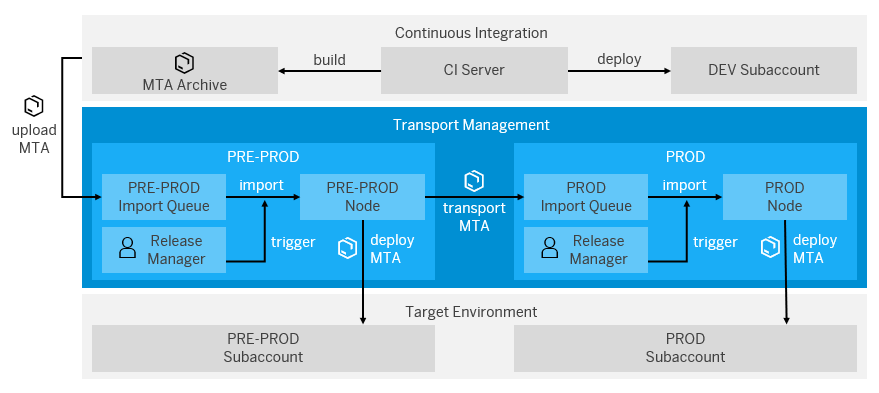
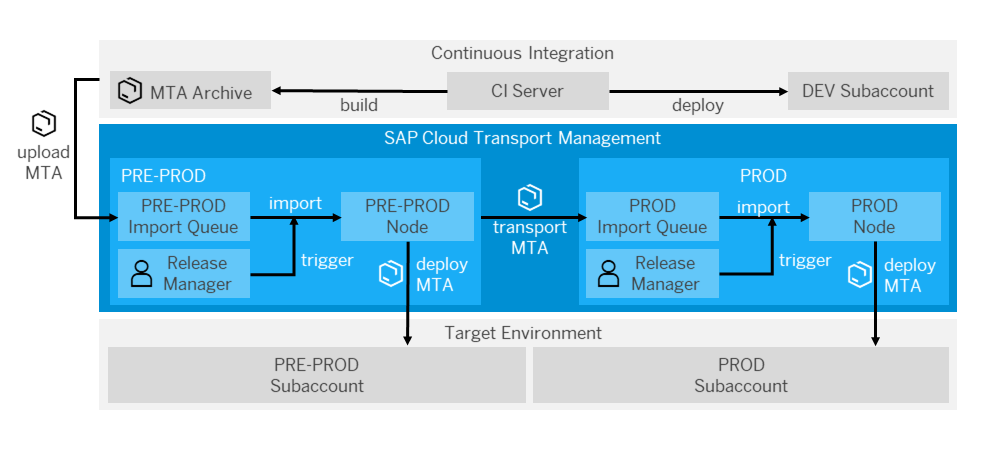
Update TMS pages after rebranding

diff --git a/documentation/docs/scenarios/TMS_Extension.md b/documentation/docs/scenarios/TMS_Extension.md
@@ -1,32 +1,34 @@
-# Integrate SAP Cloud Platform Transport Management Into Your CI/CD Pipeline
+# Integrate SAP Cloud Transport Management Into Your CI/CD Pipeline
 
-Extend your CI/CD pipeline with SAP Cloud Platform Transport Management (Transport Management, for short) to add an enterprise-ready change and release management process and enable the transport of cloud-based applications on SAP Cloud Platform between several stages.
+Extend your CI/CD pipeline with SAP Cloud Transport Management service to add an enterprise-ready change and release management process and enable the transport of cloud-based applications on SAP Business Technology Platform (BTP) between several stages.
 
 ## Context
 
-This procedure explains how to upload a [multitarget application](https://www.sap.com/documents/2016/06/e2f618e4-757c-0010-82c7-eda71af511fa.html) from a CI/CD pipeline to Transport Management and then import it into its target environment.
+This procedure explains how to upload a [multitarget application](https://www.sap.com/documents/2016/06/e2f618e4-757c-0010-82c7-eda71af511fa.html) from a CI/CD pipeline to Cloud Transport Management and then import it into its target environment.
 
-Transport Management allows you to manage the transport of development artifacts and application-specific content between different SAP Cloud Platform accounts. It adds transparency to the audit trail of changes so that you get information about who performed which changes in your production accounts and when they did it. At the same time, Transport Management enables a separation of concerns: For example, a developer of an application or of SAP Cloud Platform content artifacts can trigger the propagation of changes, while the resulting transport is handled by a central operations team. For more information, see [SAP Cloud Platform Transport Management](https://help.sap.com/viewer/product/TRANSPORT_MANAGEMENT_SERVICE/Cloud/en-US).
+Cloud Transport Management allows you to manage the transport of development artifacts and application-specific content between different SAP BTP accounts. It adds transparency to the audit trail of changes so that you get information about who performed which changes in your production accounts and when they did it. At the same time, Cloud Transport Management enables a separation of concerns: For example, a developer of an application or of SAP Cloud content artifacts can trigger the propagation of changes, while the resulting transport is handled by a central operations team. For more information, see [SAP Cloud Transport Management](https://help.sap.com/viewer/product/TRANSPORT_MANAGEMENT_SERVICE/Cloud/en-US).
 
-The following graphic provides an overview about the interplay between continuous integration and Transport Management:
+The following graphic provides an overview about the interplay between continuous integration and Cloud Transport Management:
 
-![Interplay of CI and Transport Management](../images/Interplay_TMS.png "Interplay of CI and Transport Management")
+![Interplay of CI and Cloud Transport Management](../images/Interplay_TMS.png "Interplay of CI and Transport Management")
 
 ## Prerequisites
 
-* You have an existing CI pipeline, which you want to extend with Transport Management.
-* You have an MTA project, and the folder structure of its sources corresponds to the standard MTA structure. For more information, see [The Multitarget Application Model](https://www.sap.com/documents/2016/06/e2f618e4-757c-0010-82c7-eda71af511fa.html).
-* You have access to Transport Management. See [Provide Access to SAP Cloud Platform Transport Management](https://help.sap.com/viewer/7f7160ec0d8546c6b3eab72fb5ad6fd8/Cloud/en-US/13894bed9e2d4b25aa34d03d002707f9.html).
-* You have set up SAP Cloud Platform Transport Management and created a service key. See [Set Up the Environment to Transport Content Archives directly in an Application](https://help.sap.com/viewer/7f7160ec0d8546c6b3eab72fb5ad6fd8/Cloud/en-US/8d9490792ed14f1bbf8a6ac08a6bca64.html).
+* You have an existing CI pipeline, which you want to extend with Cloud Transport Management.
+* You have an MTA project, and the folder structure of its sources corresponds to the standard MTA structure. For more information about MTAs, see:
+    * [Multitarget Applications in the Cloud Foundry Environment](https://help.sap.com/viewer/65de2977205c403bbc107264b8eccf4b/Cloud/en-US/d04fc0e2ad894545aebfd7126384307c.html)
+    * [Multitarget Applications for the Neo Environment](https://help.sap.com/viewer/ea72206b834e4ace9cd834feed6c0e09/Cloud/en-US/e1bb7eb746d34237b8b47035adff5022.html)
+* You have access to Cloud Transport Management. See [Provide Access to SAP Cloud Transport Management](https://help.sap.com/viewer/7f7160ec0d8546c6b3eab72fb5ad6fd8/Cloud/en-US/13894bed9e2d4b25aa34d03d002707f9.html).
+* You have set up Cloud Transport Management and created a service key. See [Set Up the Environment to Transport Content Archives directly in an Application](https://help.sap.com/viewer/7f7160ec0d8546c6b3eab72fb5ad6fd8/Cloud/en-US/8d9490792ed14f1bbf8a6ac08a6bca64.html).
 * You have configured your transport landscape. See [Configuring the Landscape](https://help.sap.com/viewer/7f7160ec0d8546c6b3eab72fb5ad6fd8/Cloud/en-US/3e7b04236d804a4eb80e42c6360209f1.html).
 
 ## Procedure
 
 You can use this scenario to extend any CI process that meets the prerequisites, for example, the one described in [Build and Deploy SAPUI5 or SAP Fiori Applications on SAP Cloud Platform with Jenkins](https://sap.github.io/jenkins-library/scenarios/ui5-sap-cp/Readme/).
 
-The following graphic shows an example of the detailed procedure when combining continuous integration and Transport Management:
+The following graphic shows an example of the detailed procedure when combining continuous integration and Cloud Transport Management:
 
-![Detailed Procedure When Combining CI and Transport Management](../images/Detailed_Process_TMS.png "Detailed Procedure When Combining CI and SAP Cloud Platform Transport Management")
+![Detailed Procedure When Combining CI and Cloud Transport Management](../images/Detailed_Process_TMS.png "Detailed Procedure When Combining CI and SAP Cloud Transport Management")
 
 The process flow contains the following steps:
 
@@ -35,7 +37,7 @@ The process flow contains the following steps:
 1. Optionally, for transports in Cloud Foundry environment, MTA extension descriptors can be uploaded to the nodes in the transport landscape to provide node-specific import configurations. The MTA extension descriptor file must either be part of the repository, or be the result of the build process.
 1. The release manager manually triggers the import, or schedules it, which results in the physical deployment of the MTA archive into the corresponding subaccount (in this example, PRE-PROD). If an MTA extension descriptor was uploaded for this node, it will be used for the import.
 1. As soon as the import is executed, a transport is triggered along the defined transport route so that the MTA archive reaches the import queue of the next node (in this example, PROD).
-1. There, the physical import into the corresponding subaccount can be either triggered manually by the release manager or automatically by using the scheduling mechanisms of Transport Management.
+1. There, the physical import into the corresponding subaccount can be either triggered manually by the release manager or automatically by using the scheduling mechanisms of Cloud Transport Management.
 
 ## Example
 
@@ -75,15 +77,15 @@ stages:
 
 ```
 
-#### Configuration for the Upload to Transport Management
+#### Configuration for the Upload to Cloud Transport Management
 
 | Parameter          | Description |
 | -------------------|-------------|
-| `credentialsId` |Credentials that are used for the file and node uploads to Transport Management.|
+| `credentialsId` |Credentials that are used for the file and node uploads to Cloud Transport Management.|
 | `nodeName`|Defines the name of the node to which the *.mtar file is uploaded.|
-| `mtaPath`|Defines the path to the *.mtar file for the upload to Transport Management.|
+| `mtaPath`|Defines the path to the *.mtar file for the upload to Cloud Transport Management.|
 | `customDescription`|Optional: Description of a transport request. Overwrites the default (Default: Corresponding Git Commit-ID).|
-|`nodeExtDescriptorMapping`|Optional: Defines the mapping between a transport node and the MTA extension descriptor file that is used for the transport node. You specify the node name and the relative path to the MTA extension descriptor file using the following syntax: `nodeExtDescriptorMapping: [nodeName: 'example.mtaext', nodeName2: 'example2.mtaext', …]`.|
+|`nodeExtDescriptorMapping`|Optional: Defines the mapping between a transport node and the MTA extension descriptor file that is used for the transport node. You specify the node name and the relative path to the MTA extension descriptor file using the syntax which is shown in the configuration example.|
 |`mtaVersion`|Optional: Defines the version of the MTA for which the MTA extension descriptor is used. You can use an asterisk (*) to accept any MTA version, or use a specific version compliant with SemVer 2.0, e.g. 1.0.0 (see semver.org). If the parameter is not configured, an asterisk is used.|
 
 ### Parameters
